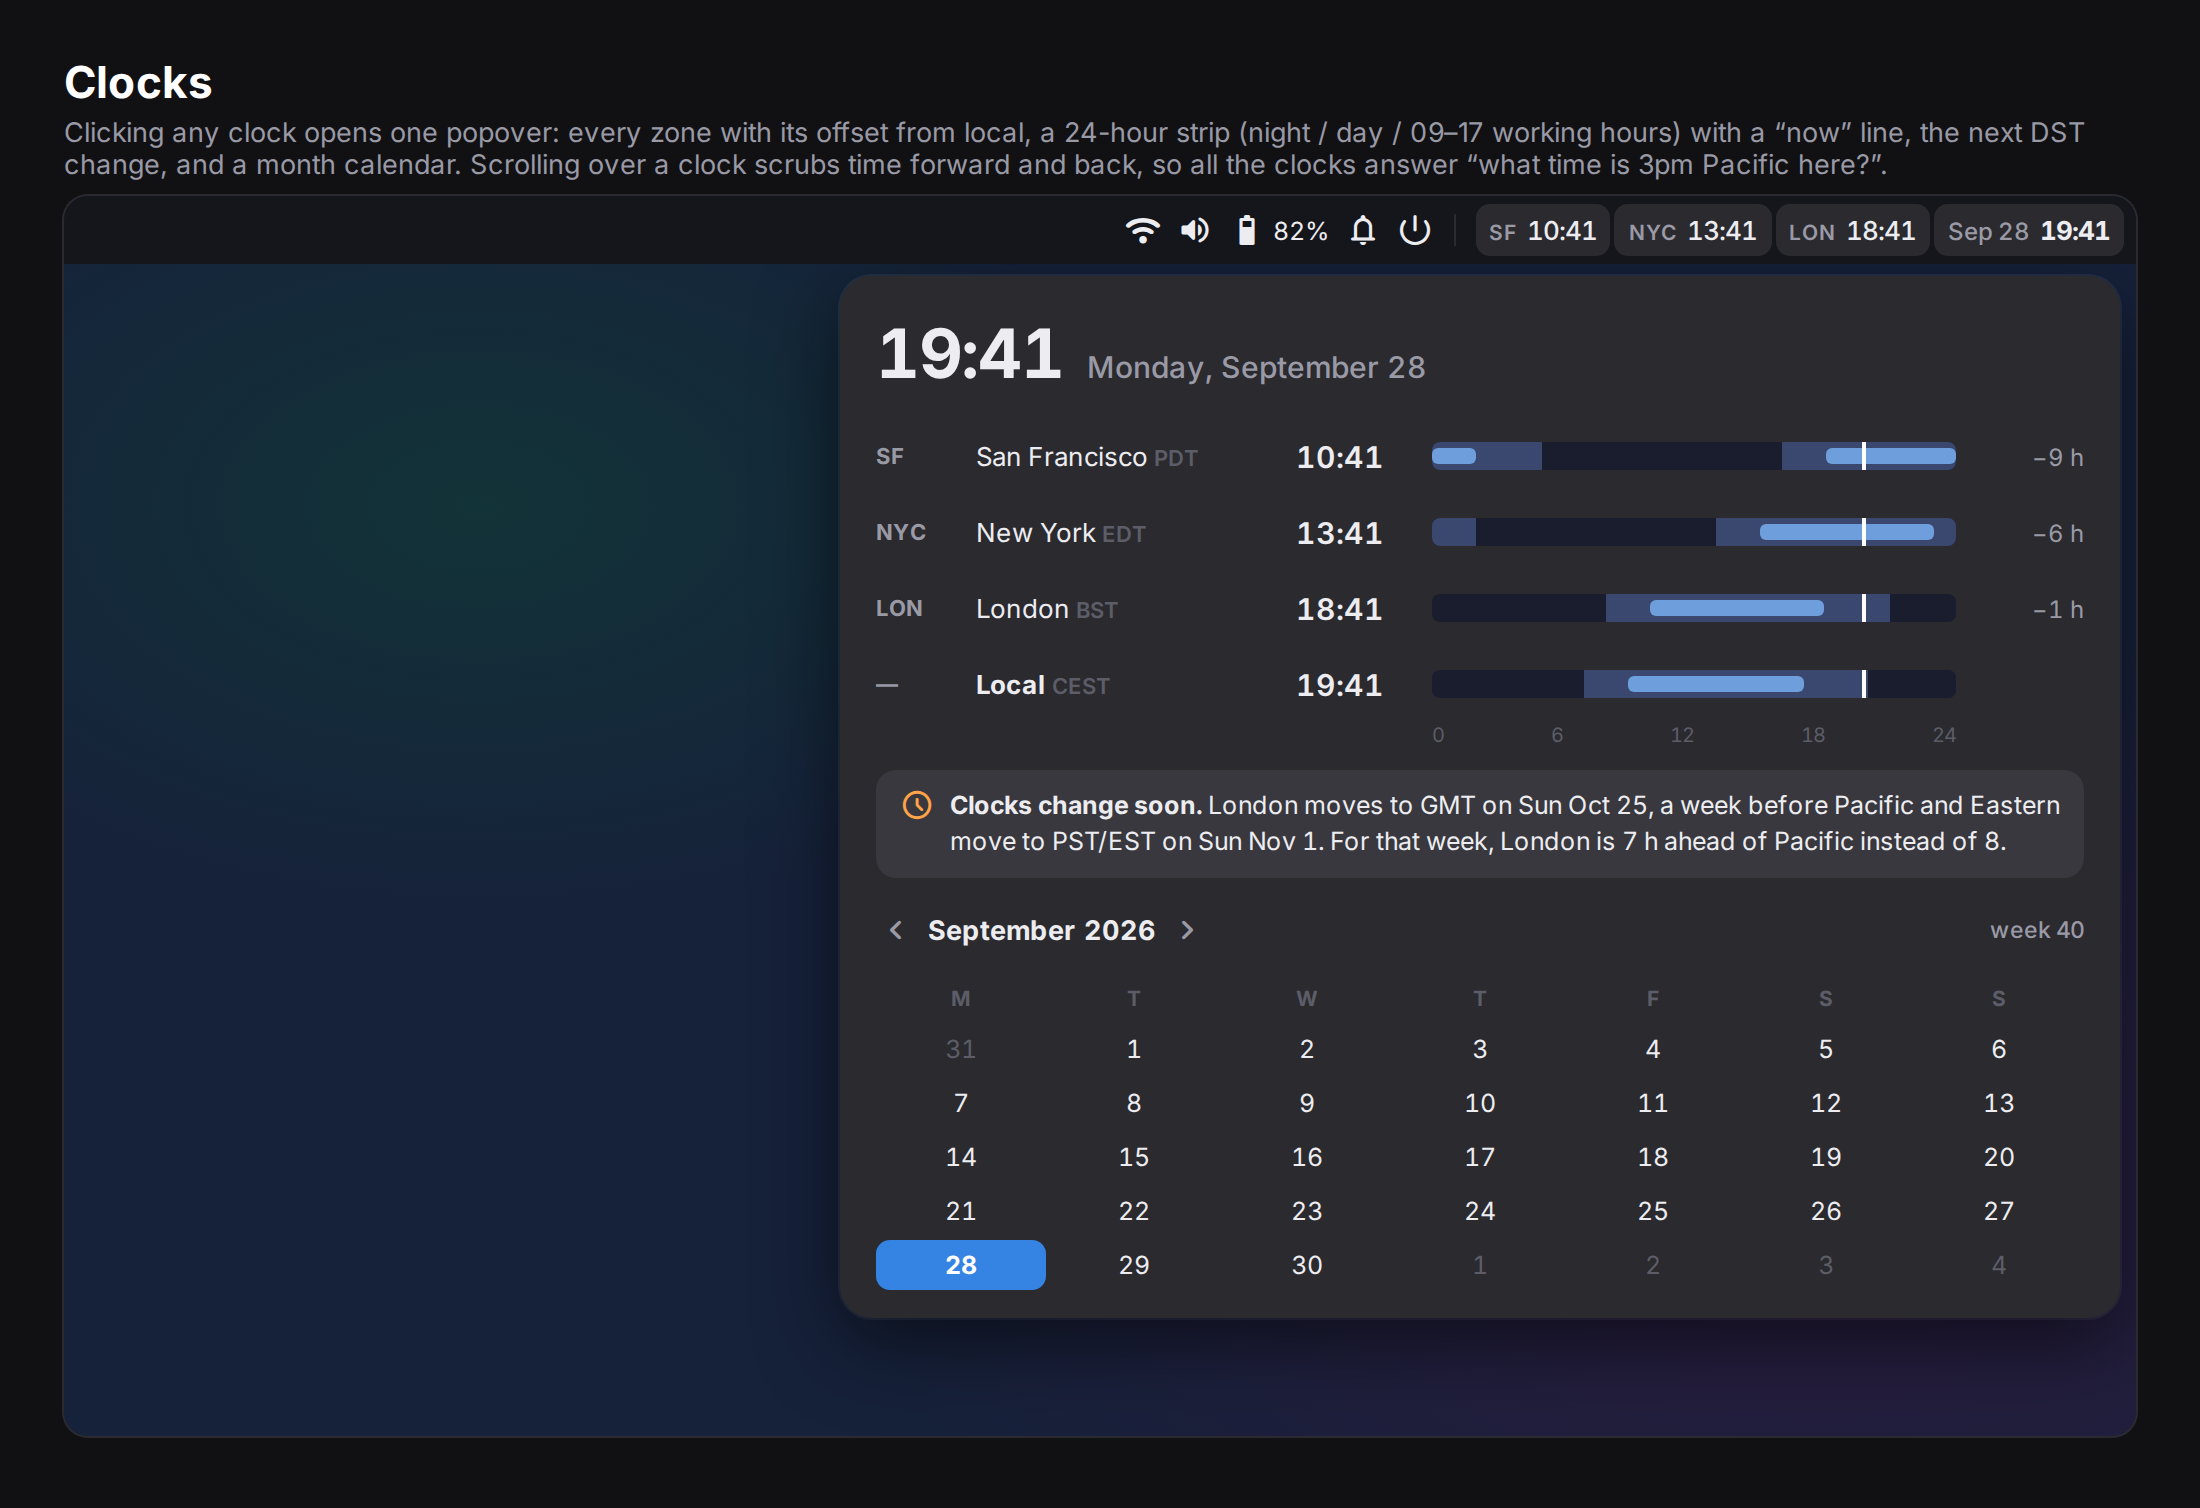
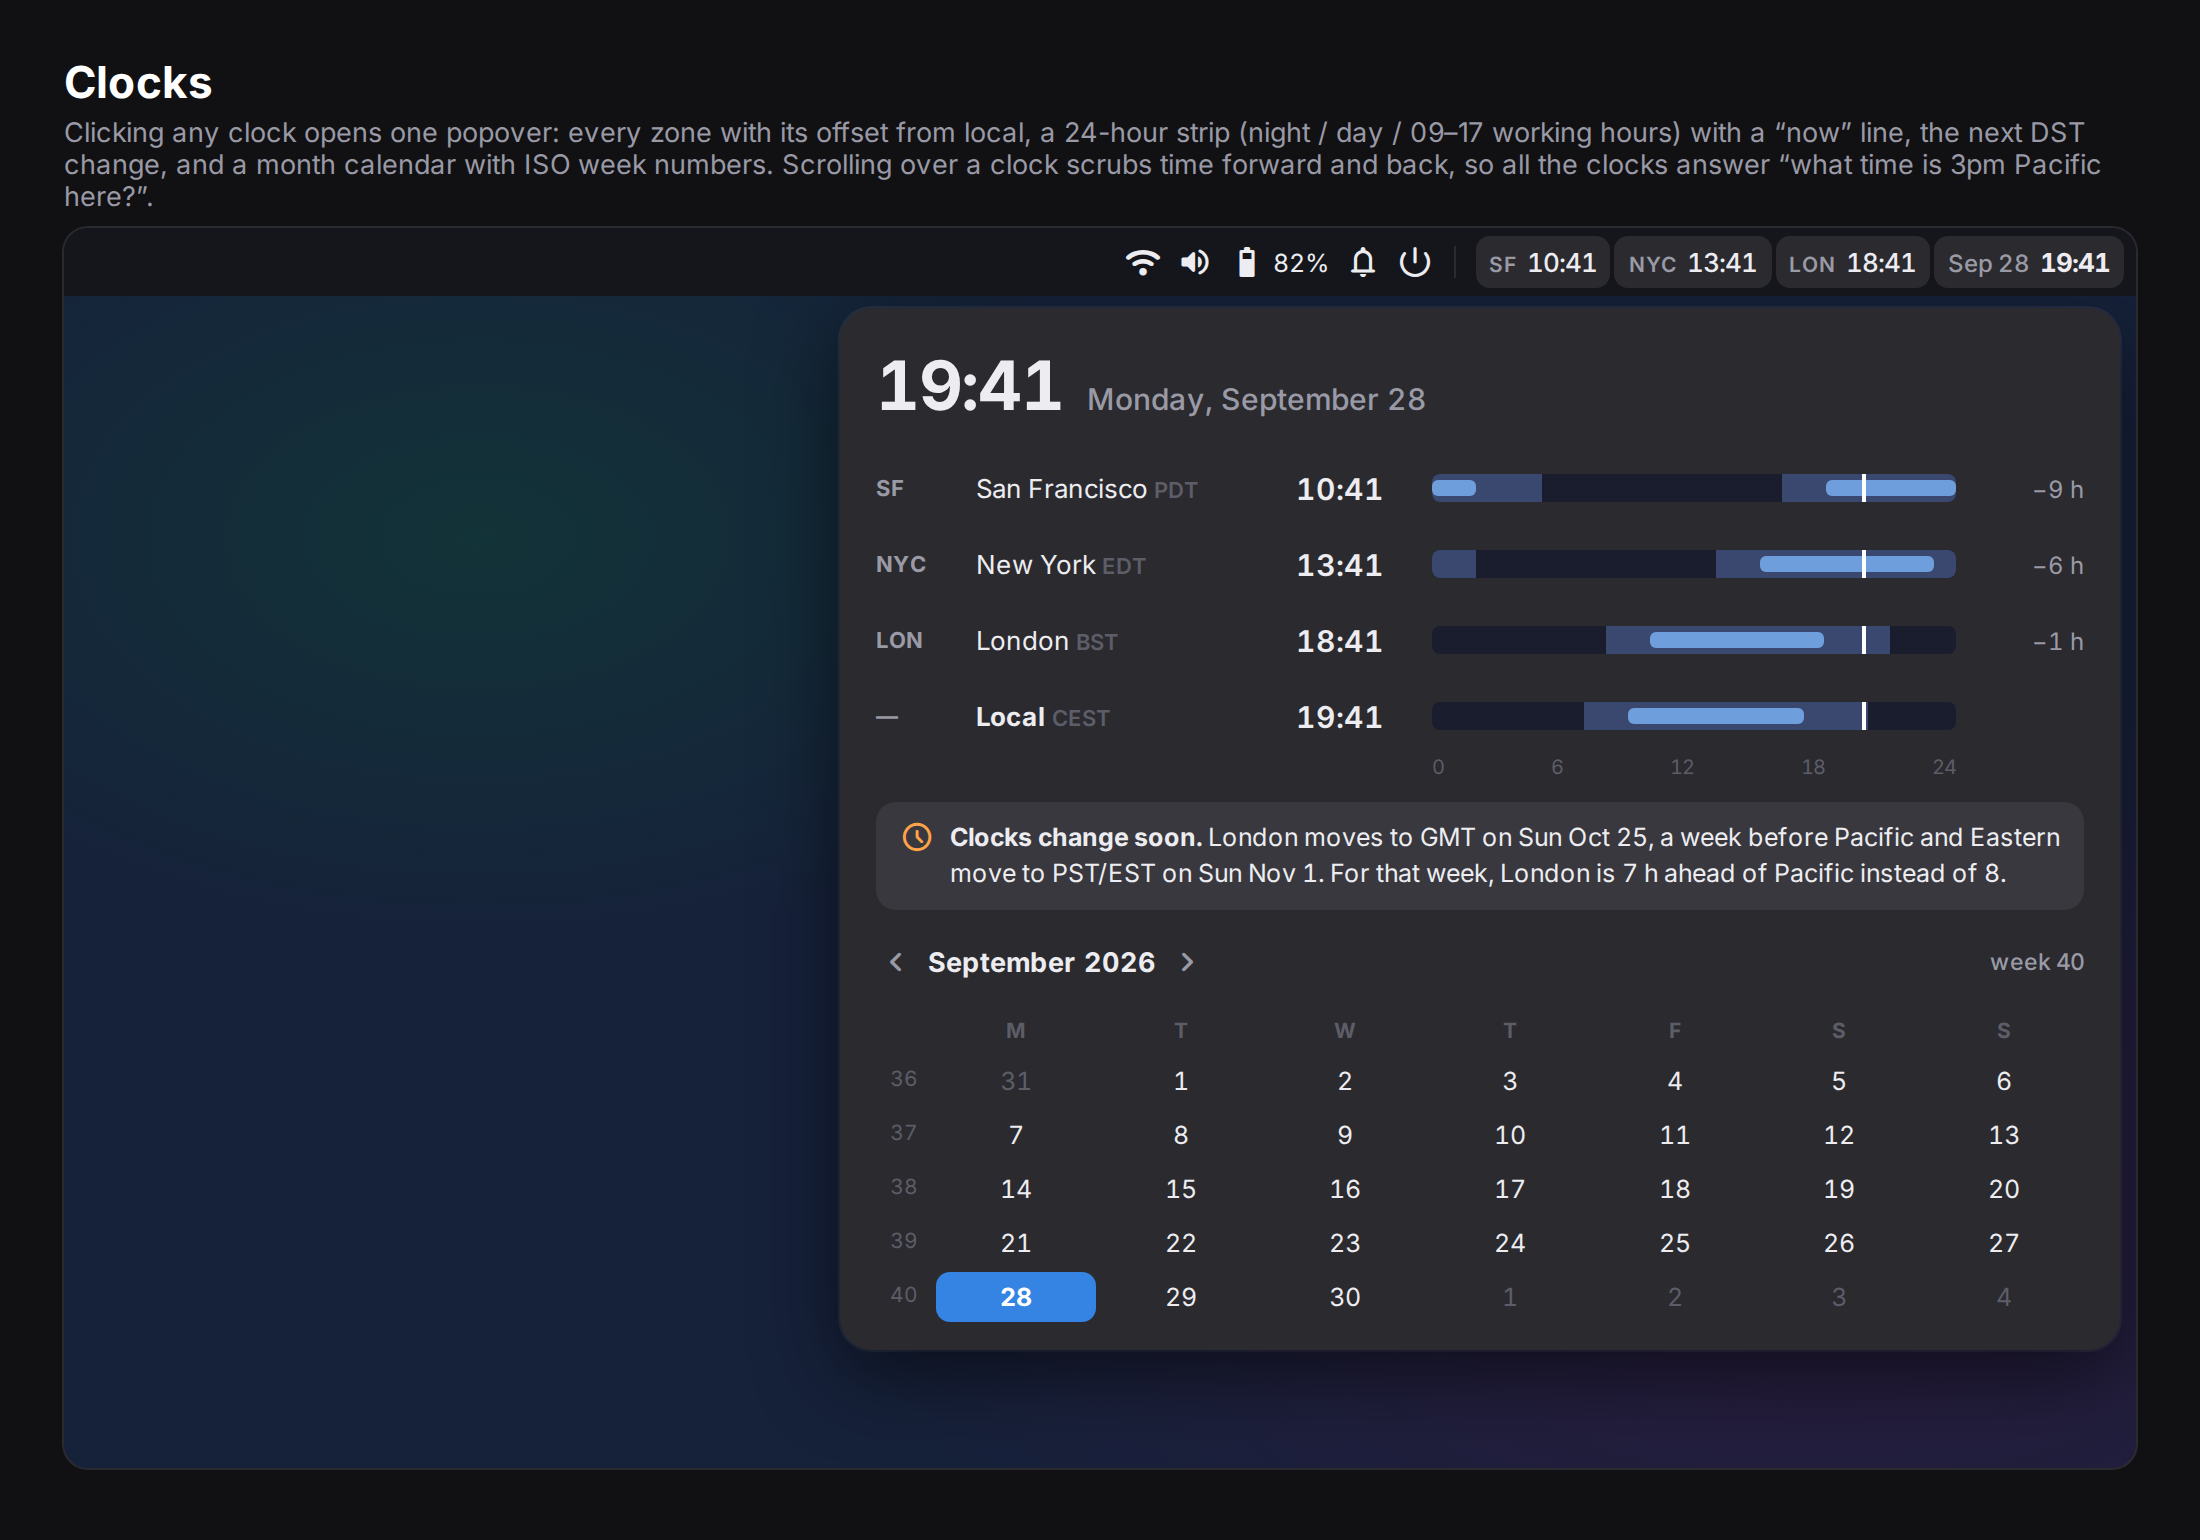
docs: show ISO week numbers in the clocks mock
The clocks popover's calendar starts each row with its ISO week number,
as SPEC.md §7.3 asks; the mock now shows the same column, and the
decision recorded in TODO.md is settled in favor of it.

Claude-Session: https://claude.ai/code/session_016JKKNkjAowYMPpStXefxJ4

diff --git a/docs/mocks/clocks.html b/docs/mocks/clocks.html
@@ -36,10 +36,11 @@
   .axis .ticks { display: flex; justify-content: space-between; }
   .dst { margin-top: 12px; padding: 9px 12px; border-radius: 10px; background: var(--surface-2); font-size: 12.5px; display: flex; gap: 8px; align-items: flex-start; line-height: 1.45; }
   .dst .ms { font-size: 17px; color: var(--warn); }
-  .cal { margin-top: 14px; display: grid; grid-template-columns: repeat(7, 1fr); gap: 2px; text-align: center; font-size: 12.5px; }
+  .cal { margin-top: 14px; display: grid; grid-template-columns: 28px repeat(7, 1fr); gap: 2px; text-align: center; font-size: 12.5px; }
   .cal .h { font-size: 10.5px; font-weight: 700; color: var(--fg-faint); padding: 4px 0; }
   .cal span { padding: 5px 0; border-radius: 7px; }
   .cal .o { color: var(--fg-faint); }
+  .cal .wk { color: var(--fg-faint); font-size: 10.5px; }
   .cal .today { background: var(--accent-bg); color: #fff; font-weight: 700; }
   .cal .mark { box-shadow: inset 0 -2px 0 var(--warn); }
   .calhd { display: flex; align-items: center; margin-top: 16px; font-weight: 700; font-size: 13.5px; }
@@ -50,7 +51,7 @@
 <body class="sheet" data-width="1100" data-scale="2">
 
 <h1>Clocks</h1>
-<p class="lede">Clicking any clock opens one popover: every zone with its offset from local, a 24-hour strip (night / day / 09–17 working hours) with a “now” line, the next DST change, and a month calendar. Scrolling over a clock scrubs time forward and back, so all the clocks answer “what time is 3pm Pacific here?”.</p>
+<p class="lede">Clicking any clock opens one popover: every zone with its offset from local, a 24-hour strip (night / day / 09–17 working hours) with a “now” line, the next DST change, and a month calendar with ISO week numbers. Scrolling over a clock scrubs time forward and back, so all the clocks answer “what time is 3pm Pacific here?”.</p>
 
 <div class="stage theme-dark">
   <div class="bar">
@@ -105,13 +106,16 @@ for (const [ab, city, abbr, off] of zones) {
     <div class="strip">${seg(7, 20, 'day')}${seg(9, 17, 'work')}<span class="nowl" style="left:${nowX}%"></span></div>
     <span class="off">${rel ? (rel > 0 ? '+' : '−') + Math.abs(rel) + ' h' : ''}</span></div>`);
 }
-// September 2026 starts on a Tuesday; weeks start on Monday.
+// September 2026 starts on a Tuesday; weeks start on Monday, and each row
+// starts with its ISO week number (36 to 40).
 const cal = document.getElementById('cal');
-cal.innerHTML = ['M', 'T', 'W', 'T', 'F', 'S', 'S'].map(d => `<span class="h">${d}</span>`).join('');
+cal.innerHTML = ['', 'M', 'T', 'W', 'T', 'F', 'S', 'S'].map(d => `<span class="h">${d}</span>`).join('');
 let cells = ['<span class="o">31</span>'];
 for (let d = 1; d <= 30; d++) cells.push(`<span class="${d === 28 ? 'today' : ''}">${d}</span>`);
 for (let d = 1; cells.length % 7; d++) cells.push(`<span class="o">${d}</span>`);
-cal.insertAdjacentHTML('beforeend', cells.join(''));
+const rows = [];
+for (let i = 0; i < cells.length; i += 7) rows.push(`<span class="wk">${36 + i / 7}</span>` + cells.slice(i, i + 7).join(''));
+cal.insertAdjacentHTML('beforeend', rows.join(''));
 </script>
 </body>
 </html>

diff --git a/TODO.md b/TODO.md
@@ -57,12 +57,6 @@ once you have agreed with it or reversed it.
       otherwise with "Next clock change:". The calendar underlines the days
       the clocks change. The alternative is hiding the line until a change
       is near. It's `dstLead` and `SOON` in `shell/lib/popover.mjs`.
-- [ ] **The popover's calendar has a column of ISO week numbers.** SPEC.md
-      §7.3 asks for ISO week numbers; the mock shows only today's, in the
-      calendar's heading. The popover has both, so the mock is behind:
-      re-render `docs/mocks/clocks.html` with the column, or drop the column
-      and keep the heading alone. It's `calendarCells` in
-      `shell/lib/popover.mjs`.
 - [ ] **The battery popover always offers the power profiles.** They need
       power-profiles-daemon (or Fedora's tuned-ppd, which serves the same
       D-Bus API). Quickshell 0.3's `PowerProfiles` has no "available" flag,
